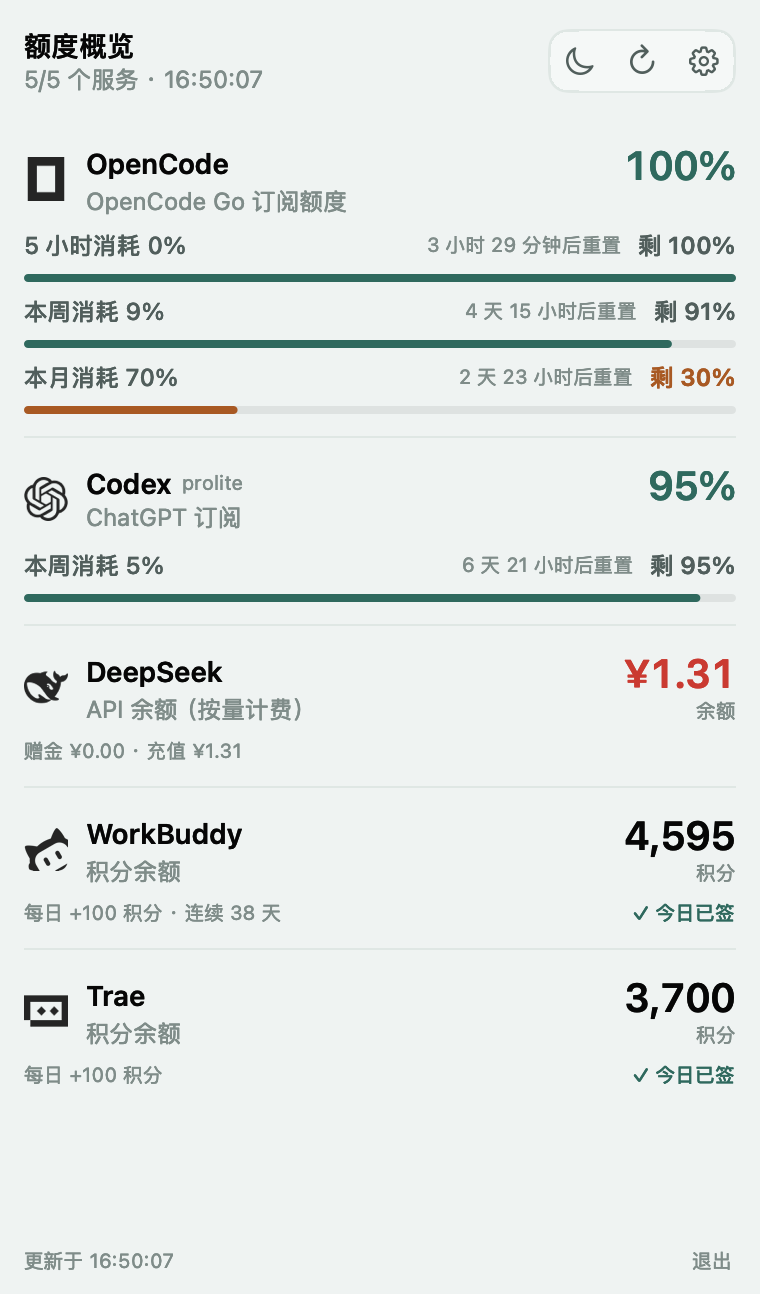
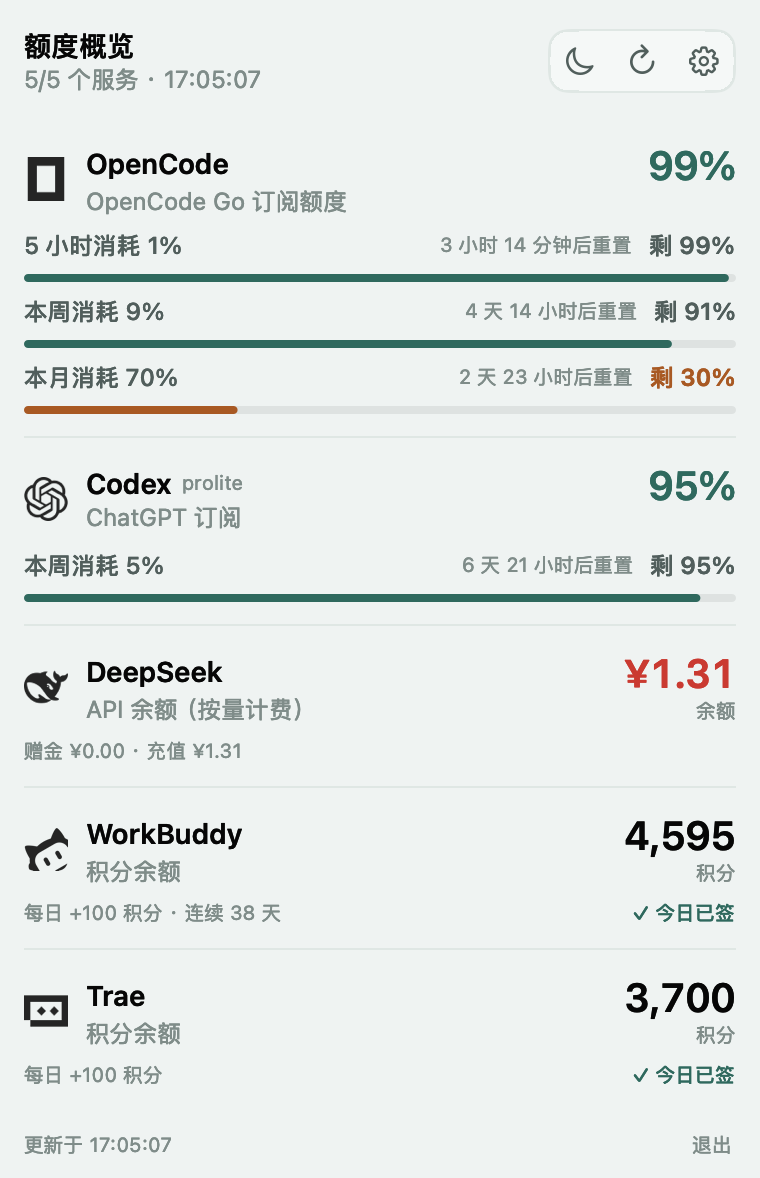
Remove excess popover blank space

diff --git a/Sources/AgentQuotaBar/PopoverViewController.swift b/Sources/AgentQuotaBar/PopoverViewController.swift
@@ -419,7 +419,8 @@ final class QuotaPopoverViewController: NSViewController {
     private func updatePreferredSize() {
         view.layoutSubtreeIfNeeded()
         let rowsHeight = rowsStack.fittingSize.height
-        let height = min(840, max(180, rowsHeight + 150))
+        // 顶部 14 + header 约 31 + 间距 12 + rows + 间距 8 + footer 约 16 + 底部 10
+        let height = min(840, max(160, rowsHeight + 92))
         preferredContentSize = NSSize(width: 380, height: height)
         view.setFrameSize(preferredContentSize)
     }
